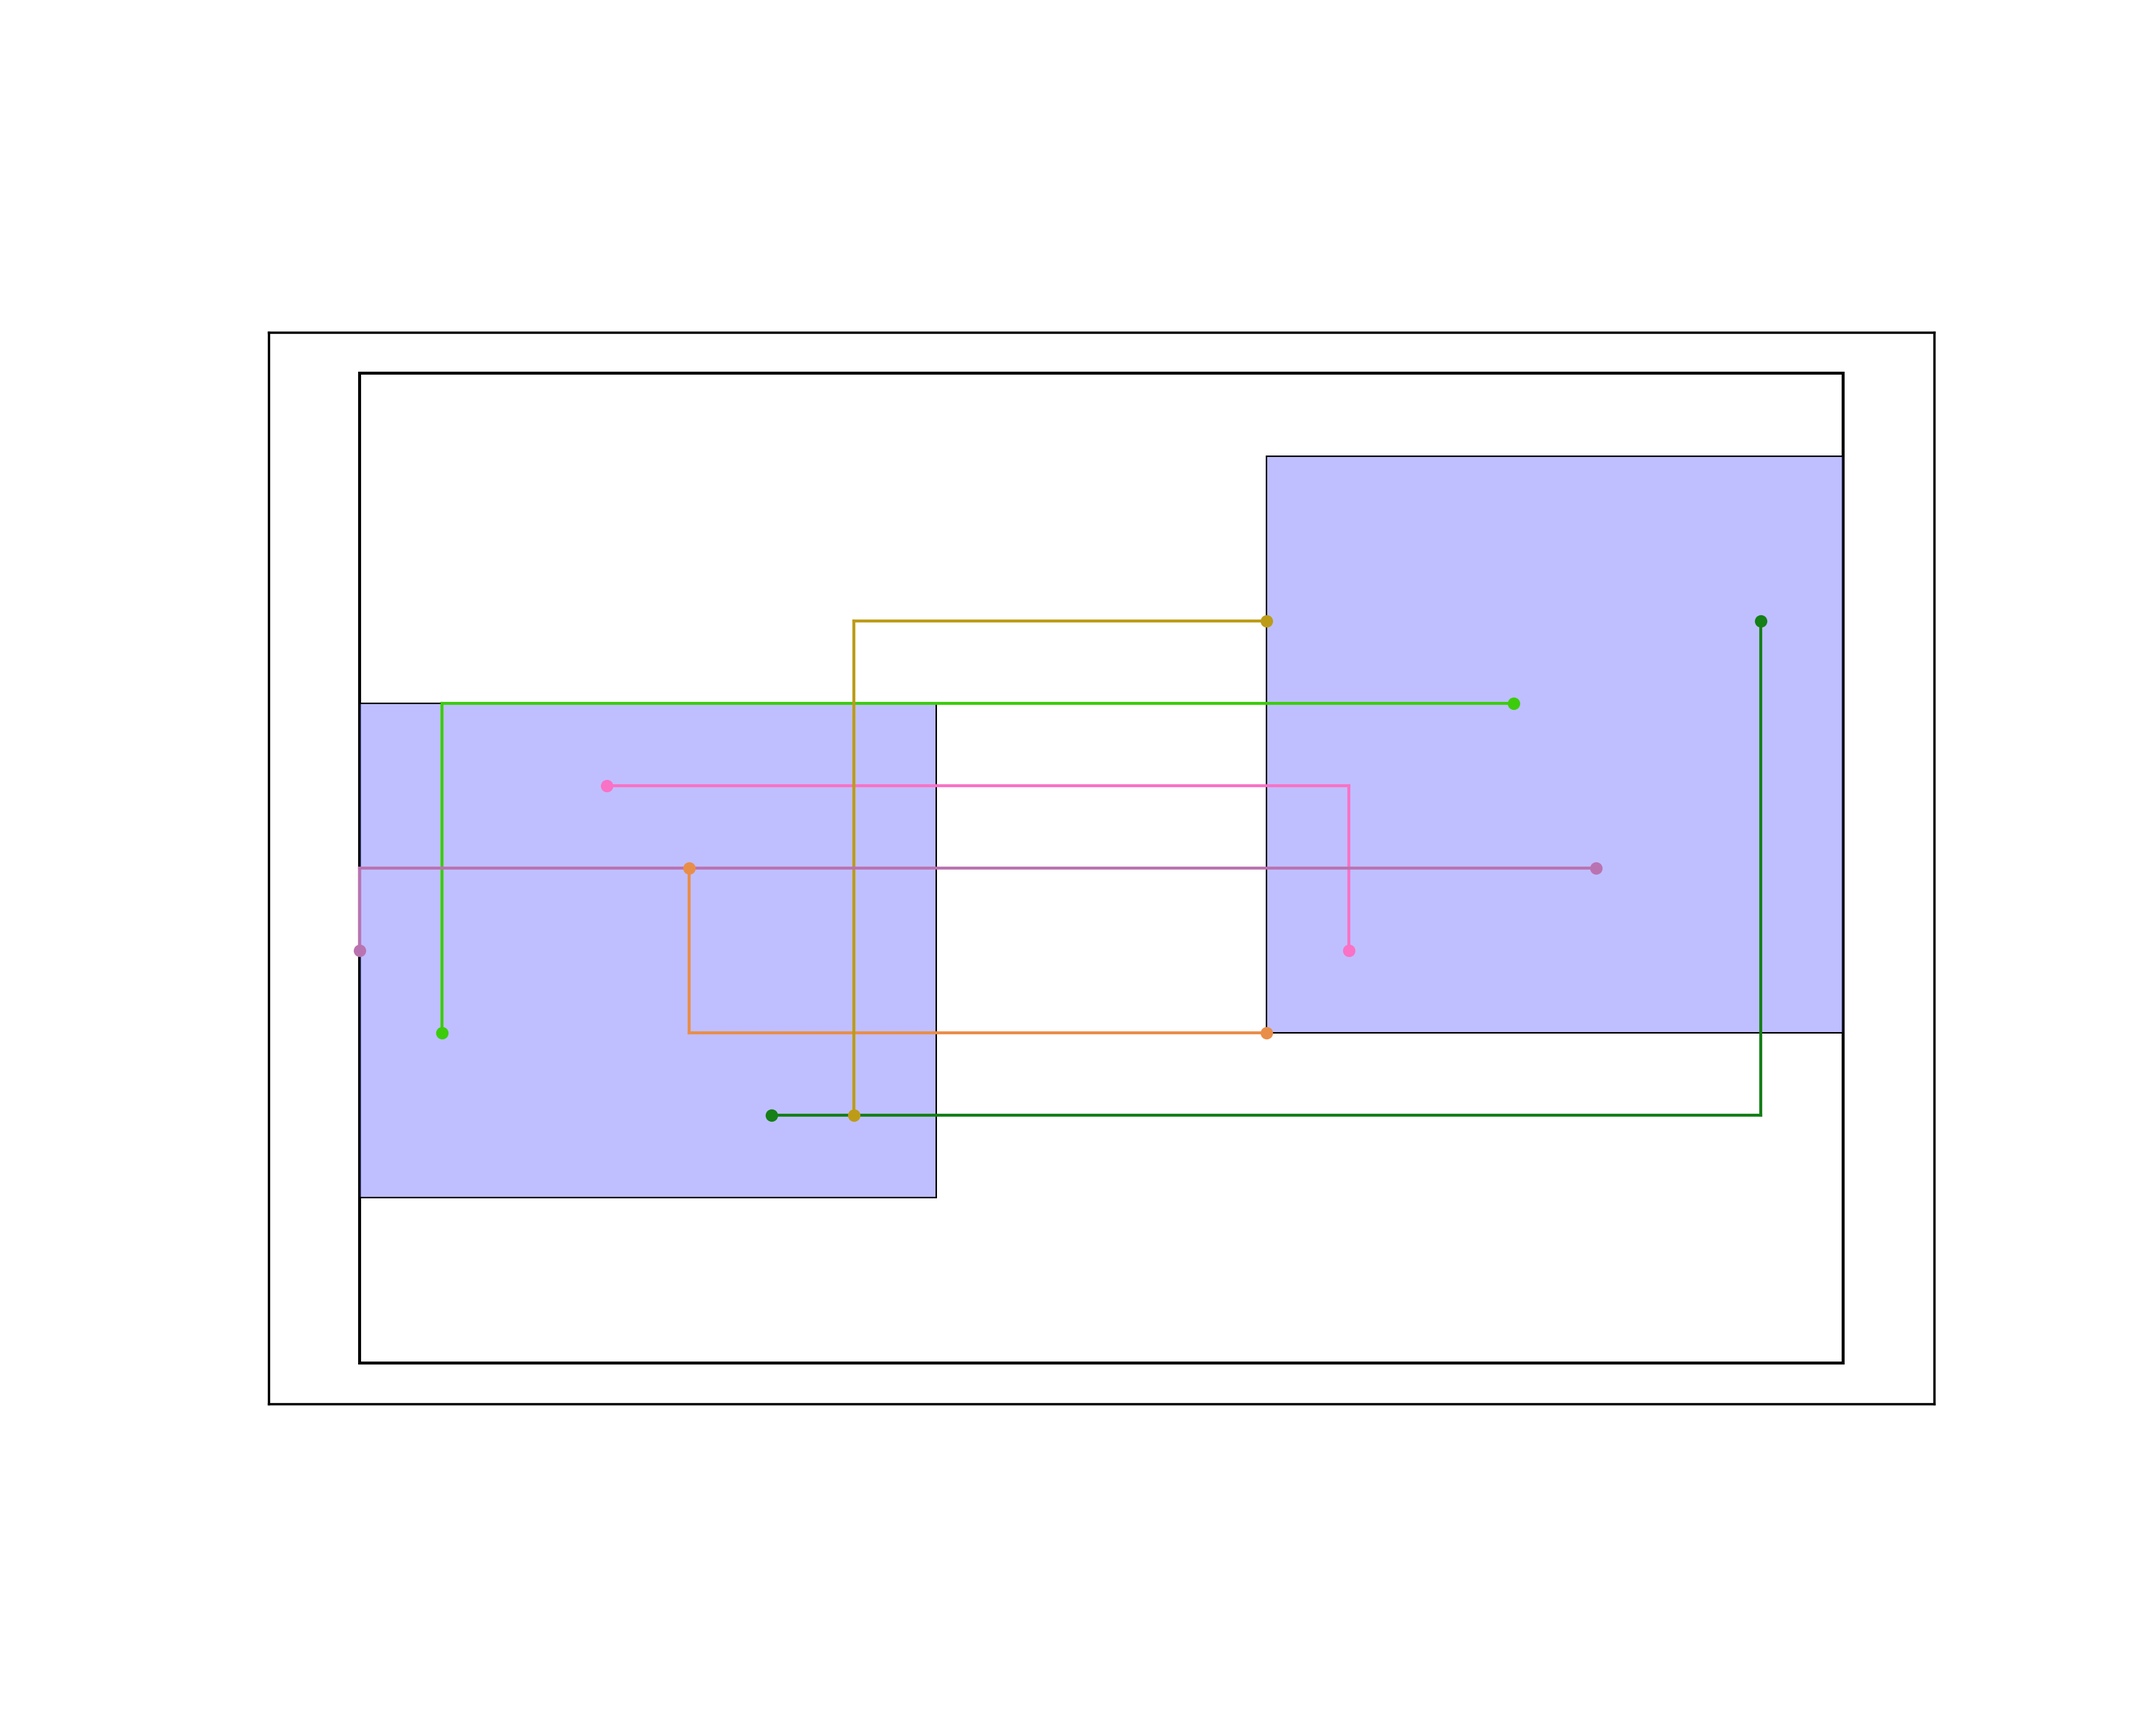
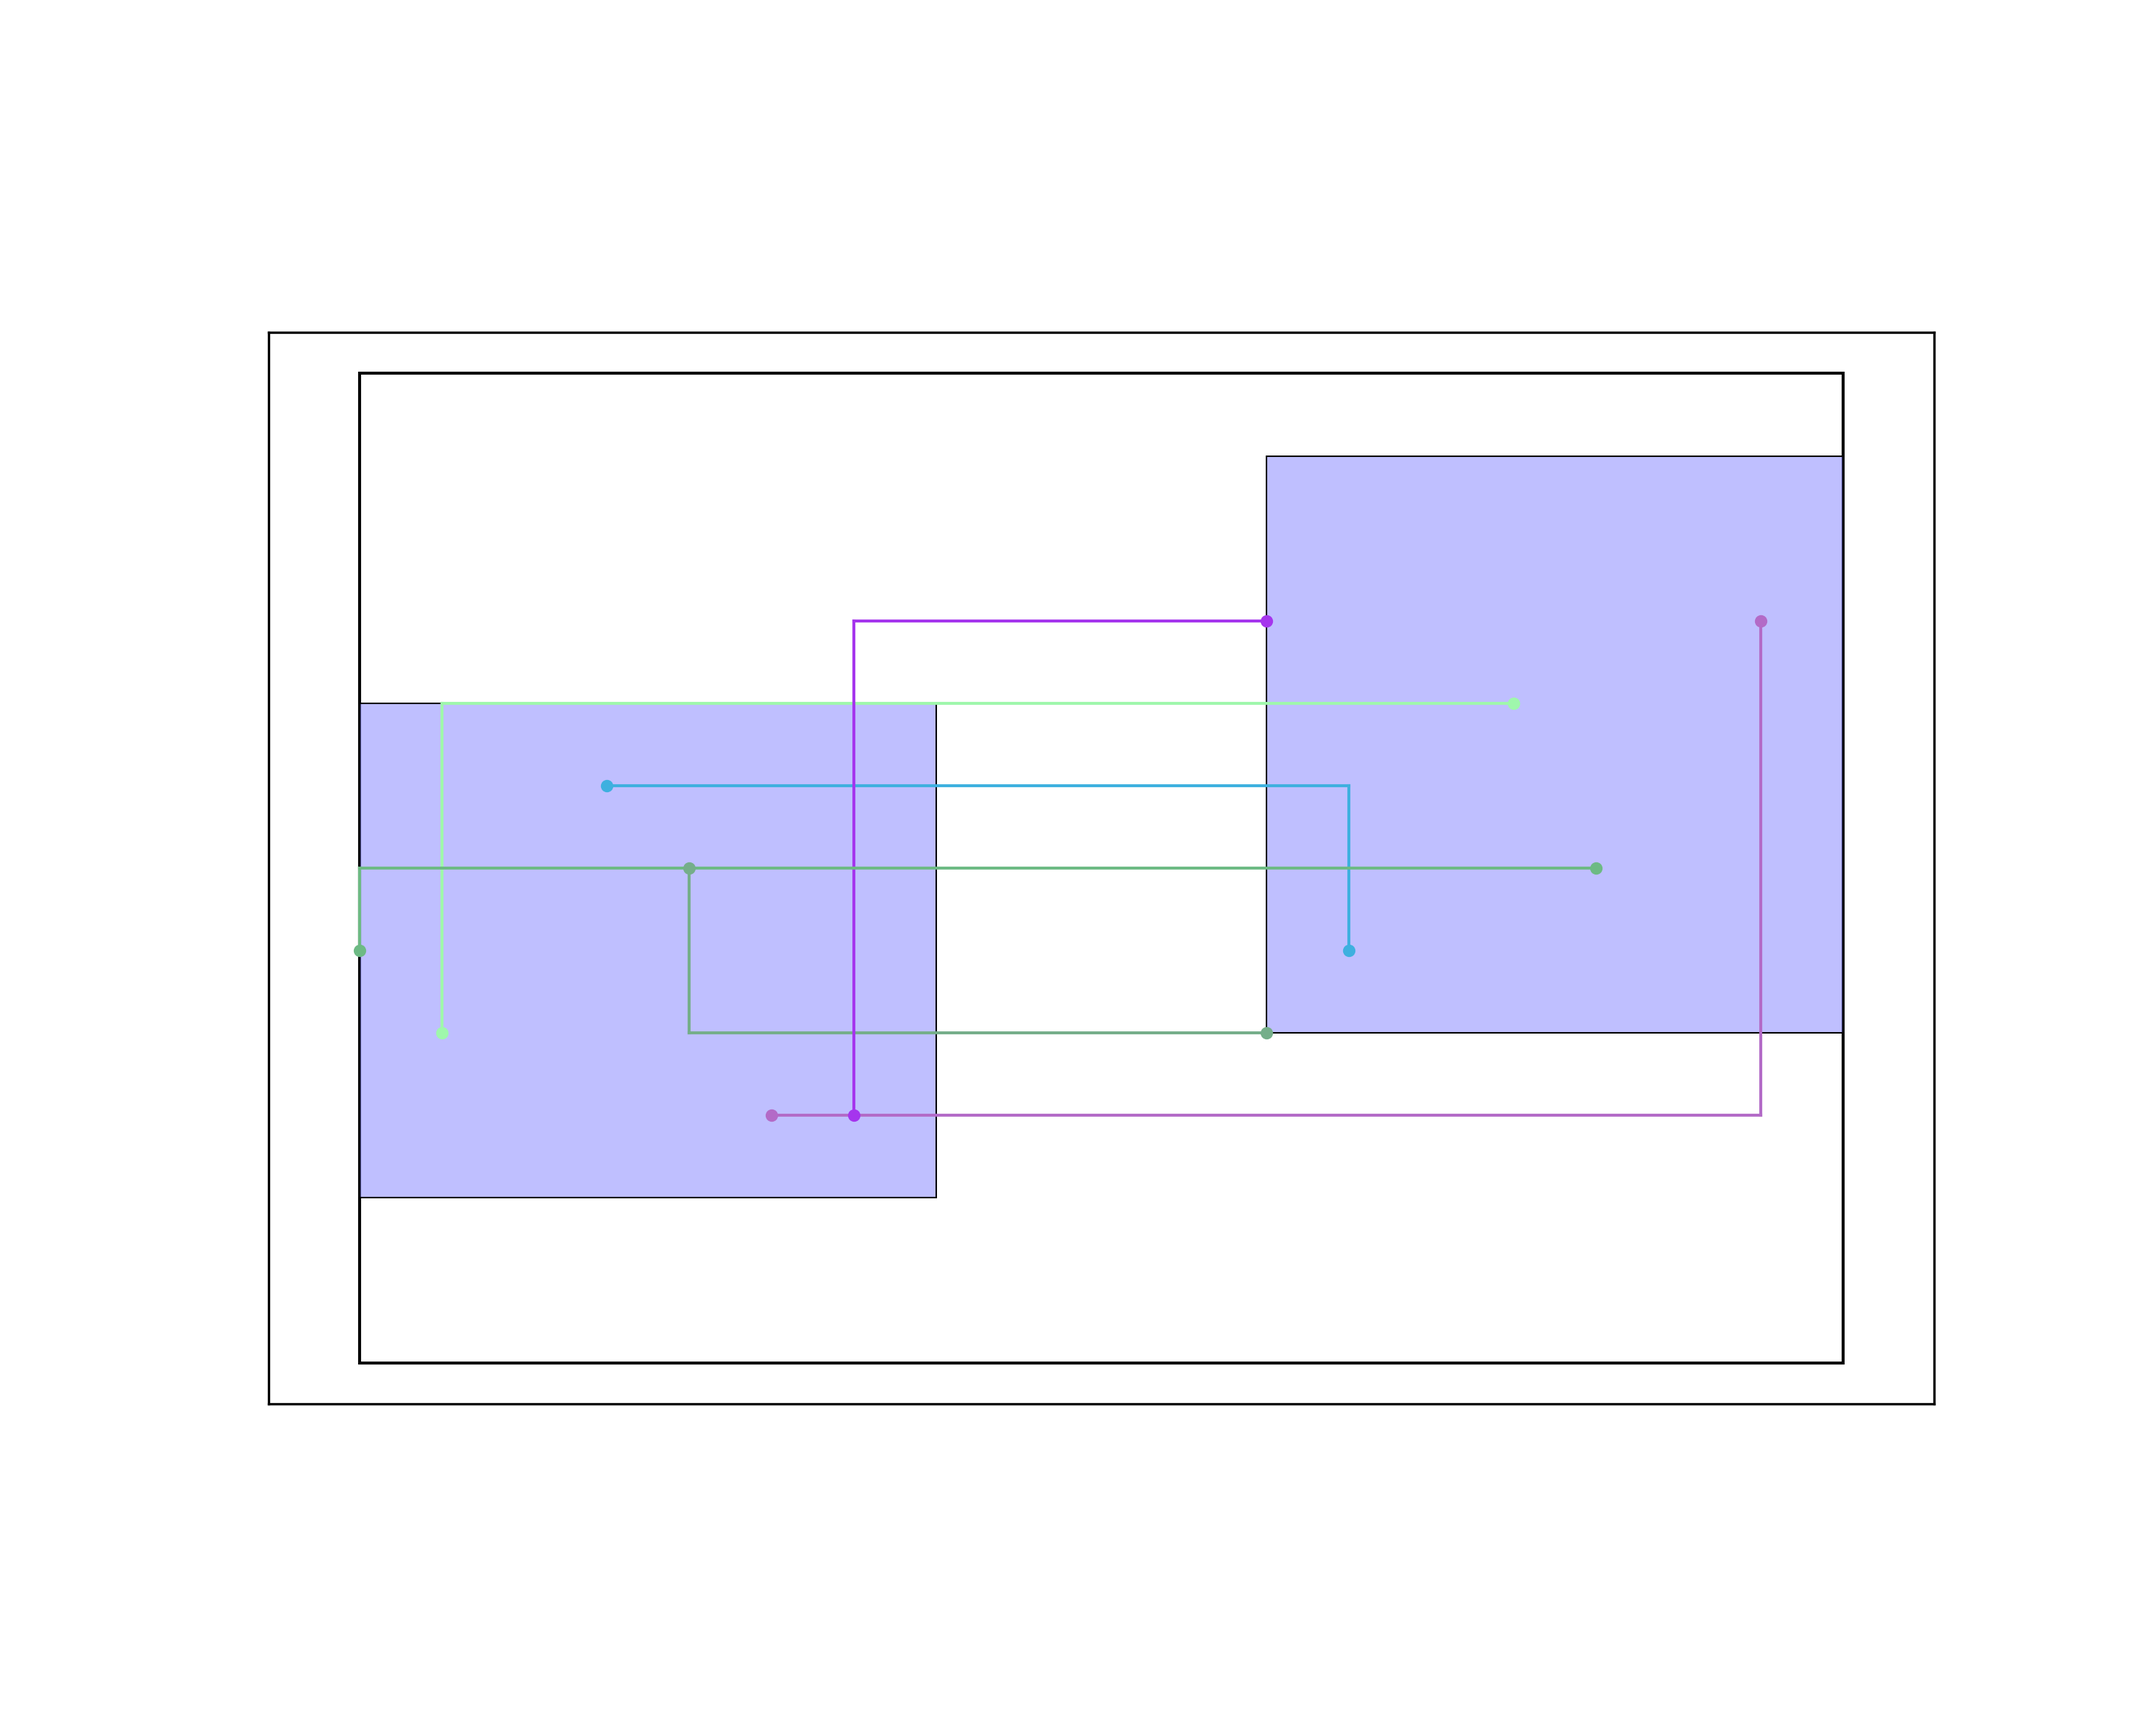
slight revise

Changed region(s): [[0.372, 0.625, 0.403, 0.6562], [0.31, 0.5, 0.341, 0.5312]]

diff --git a/Lab4/src/GR.cpp b/Lab4/src/GR.cpp
@@ -61,7 +61,7 @@ void GR::SetGrid() {
 
 void GR::DirectRoute() {
 
-    alpha = pow(alpha, 15) * 11;
+    alpha = pow(alpha, 15) * (alpha*10);
     beta  = pow(beta , 15);
     gamma = pow(gamma, 15);
     delta = pow(delta, 15);
@@ -135,7 +135,6 @@ bool GR::A_star(Gcell* src, Gcell* snk) {
             
             if(neighbor == current->parent || neighbor == pseudo_cell || close_list.count(neighbor)) continue;
 
-
             Direction origin_dir = neighbor->dir;
             Gcell* origin_parent = neighbor->parent;
 
@@ -145,11 +144,7 @@ bool GR::A_star(Gcell* src, Gcell* snk) {
             neighbor->parent = current;
             
             double tentative_cost = current->cost + Cost(neighbor, current);
-            // double p_dis = abs(current->x - snk->x) + abs(current->y - snk->y);
-            // double n_dis = abs(neighbor->x - snk->x) + abs(neighbor->y - snk->y);
-
-            // // tentative_cost = tentative_cost - alpha*p_dis + alpha*n_dis;
-
+    
             if (open_set.find(neighbor) == open_set.end()) {
                 // New node: Add to open list
                 neighbor->cost = tentative_cost;
